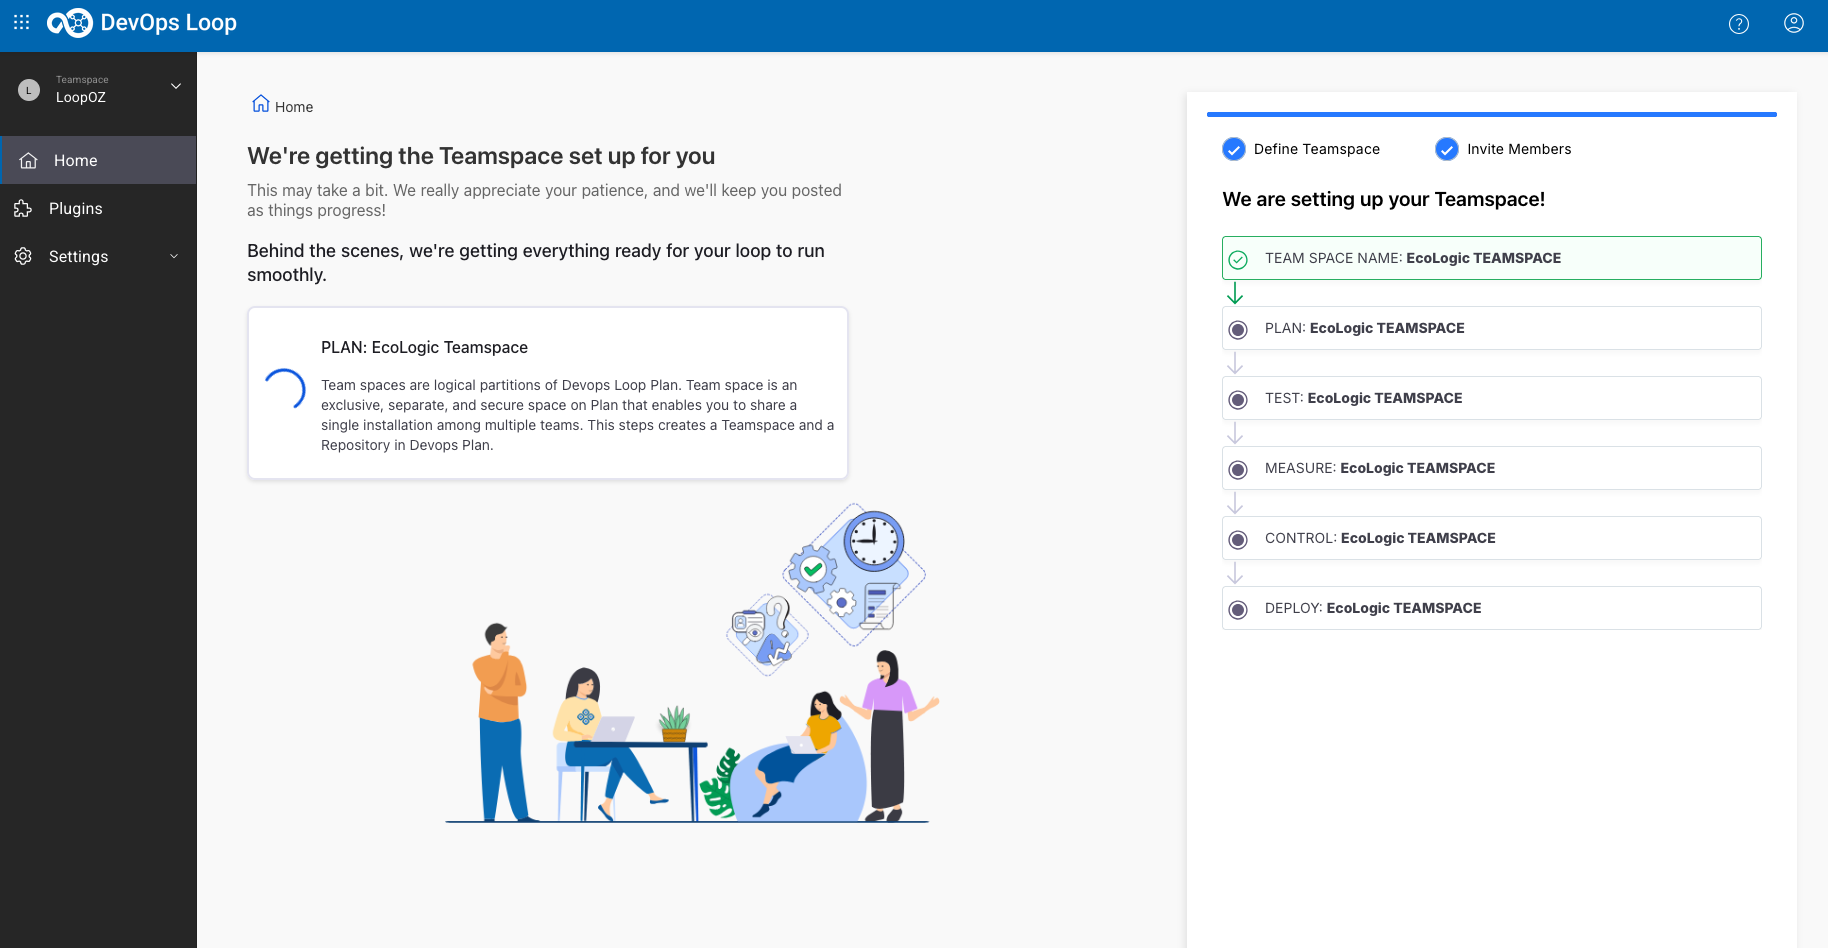
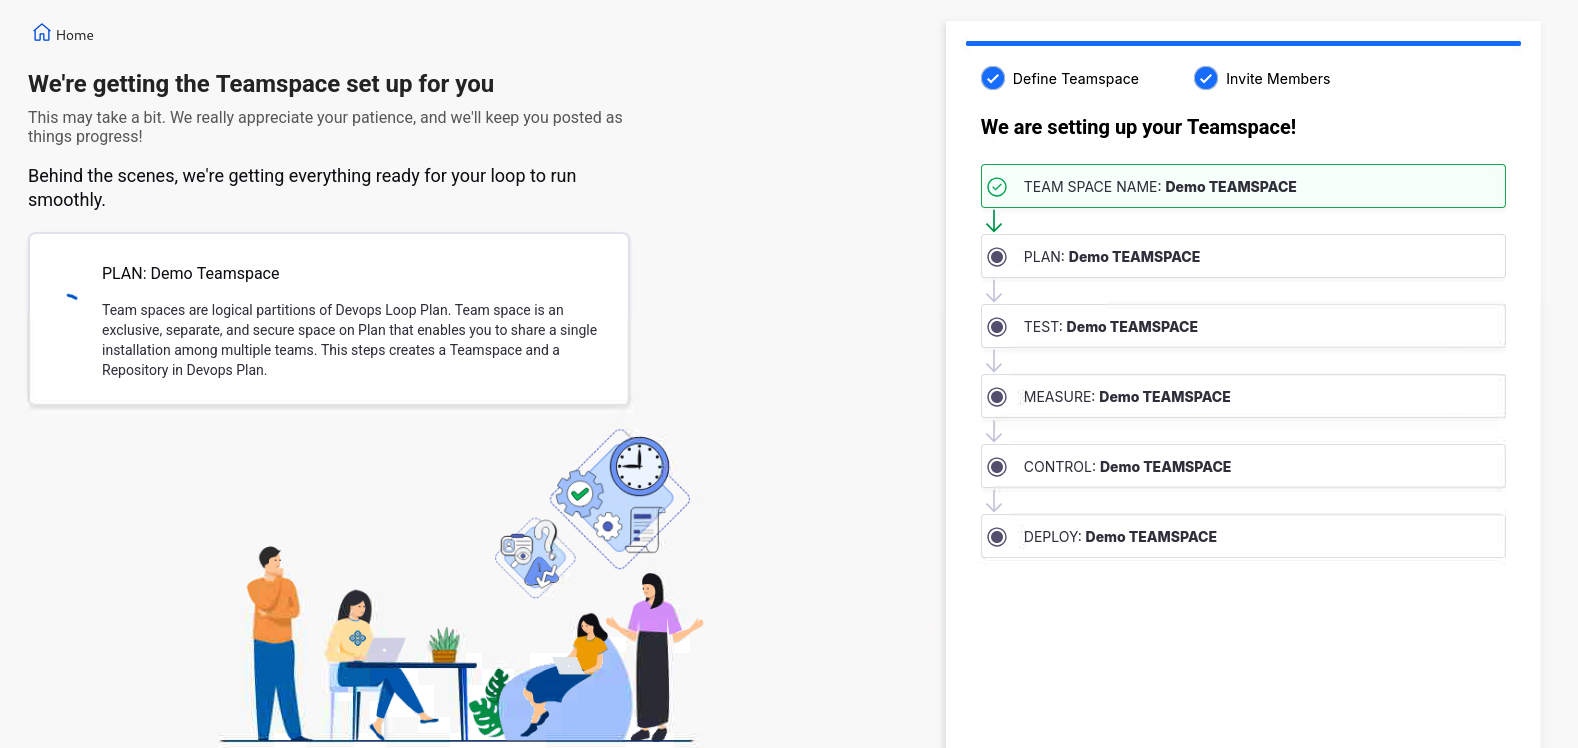
added setup guide

diff --git a/docs/setup.md b/docs/setup.md
@@ -1,0 +1,74 @@
+# Setup
+
+Manual Setup of Demo Environment on top of pre-provided DevOps Loop Environment.
+
+## TechZone
+
+TODO: get more information which environment to use and how to use the "Frontend"
+
+## Start Here
+
+### How to log in
+
+| Step | Details                                                                                                     | Additional Information                                       |
+|:----:|:------------------------------------------------------------------------------------------------------------|:-------------------------------------------------------------|
+|  1   | [Open DevOps Loop in Browser][URLDevOpsLoop]                                                                | URL= 'https://devops.automation.techzone.ibm.com/automation' |
+|  2   | Enter Your Credentials in the Login Screen <br> **User:** 'demo@devops.loop' <br>  **Password:** 'Passw0rd' | ![Login Screen][LoginDialog]                                 |
+|  3   | Click on the Sign In Button                                                                                 | ![Sign In button][SignInButton]                              |
+
+### The Home Page
+
+| Step | Details                                                                                                                               | Additional Information                                                  |
+|:----:|:--------------------------------------------------------------------------------------------------------------------------------------|:------------------------------------------------------------------------|
+|  1   | After you have been logged in you will be directed to your homepage and it will provide you an overview about metrics from your Loops | ![Home Page][LoopHomePageView]                                          |
+|  2   | If no Teamspace has been created follow the next steps                                                                                | ![No Teamspace available][NoTeamSpaceAvailable]                         |
+|  3   | Click on the Teamspace icon ![TeamSpace Icon][TSIcon] to view your Teamspaces or create a new one                                     | ![Teamspace menue][TSMenue]                                             |
+|  4   | Click on **Create TeamSpace**                                                                                                         | ![TeamSpace menue - Create TeamSpace Link][TSCreateTSentry]             |
+|  5   | Enter a name and a Description <br>**Example Name: 'Demo'** <br>**Example Description: 'Teamspace for Demos'** <br>                   | ![Teamspace - Create New][TSCreateNewDialog]                            |
+|  6   | press **Next** Button to proceed                                                                                                      | ![Next Button][NextButton]                                              |
+|  7   | You can search and **add** Teammembers to a Teamspace                                                                                 | ![Teamspace - Create New - search Member][TSAddTeammember]              |
+|  8   | Teammember is added to a list. Proceed to add more members if needed.                                                                 | ![Teamspace - Create New - Member added][TSTeamMemberAdded]             |
+|  9   | Press **Create** to proceed                                                                                                           | ![Create TeamSpace Button][TSCreateButton]                              |
+|  10  | Teamspace creation will take a few moments, as soon as it finishes a success dialog will be shown                                     | ![Teamspace - Create New - creation process started][TSCreationStarted] |
+|  11  | Teamspace created. Click on **Go to Teamspace** for next steps                                                                        | ![Teamspace - Create New - creation successfull][TSCreateionFinished]   |
+|  12  | When the creation of a TeamSpace is finished you will be forwarded to your empty loops home page for your new TeamSpace               | ![Empty Loops Homepage][LoopHomePageCreateNewLoop]                      |
+|  13  | Press the **Create Loop** Button                                                                                                      | ![Create New Loop Button][CreateNewLoopButton]                          |
+|  14  | In the Loop creation Dialog enter a name and a description                                                                            | ![Loops - Create New - Dialog][CreateNewDialog]                         |
+|  15  | press the **Next** Button to proceed                                                                                                  | ![Next Button][NextButton]                                              |
+|  16  | You can search and add a Teammember to the Loop                                                                                       | ![Loops - Create New - search Member][SearchAddMember]                  |
+|  17  | a new Member is added                                                                                                                 | ![Loops - Create New - member added][AddedMember]                       |
+|  18  | Press the **Create** Button to start Loop creation                                                                                    | ![Create Button][CreateButton]                                          |
+|  19  | Loop creation can take a few moments, as soon as it finishes a Success screen will be shown                                           | ![Loops - Create New - create process started][LoopCreation]            |
+|  20  | Creation is successfull                                                                                                               | ![Loops - Create New - creation successfull][LoopCreatedSuccess]        |
+|  21  | Press now **Go to my Loops** Button to proceed                                                                                        | ![Go to my Loop Button][GoToMyLoops]                                    |
+|      |                                                                                                                                       |                                                                         |
+
+---
+
+[LoopHomePageView]: learn/introduction/media/Loop_Home_Page.png
+[URLDevOpsLoop]: https://devops.automation.techzone.ibm.com/automation
+[LoginDialog]: learn/introduction/media/Loop_Login_Page.png
+[SignInButton]: learn/introduction/media/Loop_SignInButton.png
+[NoTeamSpaceAvailable]: learn/introduction/media/INIT_1_NoTeamspace.png
+
+[TSMenue]: learn/introduction/teamspace/media/Loop_Teamspace_01_Menue.png
+[TSCreateNewDialog]: learn/introduction/teamspace/media/Loop_Teamspace_02_CreateNew_Dialog.png
+[TSAddTeammember]: learn/introduction/teamspace/media/Loop_Teamspace_03_CreateNew_searchMember.png
+[TSTeamMemberAdded]: learn/introduction/teamspace/media/Loop_Teamspace_04_CreateNew_MemberAdded.png
+[TSCreationStarted]: learn/introduction/teamspace/media/Loop_Teamspace_05_CreateNew_creation.png
+[TSCreateionFinished]: learn/introduction/teamspace/media/Loop_Teamspace_06_CreateNew_success.png
+[TSIcon]: learn/introduction/teamspace/media/Loop_TeamSpaceIcon.png
+[TSCreateTSentry]: learn/introduction/teamspace/media/Loop_CreateTeamSpace.png
+[TSCreateButton]: learn/introduction/teamspace/media/Loop_Create_TS_Button.png
+[NextButton]: media/Button_NEXT.png
+
+[LoopHomePageCreateNewLoop]: learn/introduction/loops/media/Loop_Teamspace_07_CreateNewLoop_Home.png
+[CreateNewDialog]: learn/introduction/loops/media/Loop_Teamspace_08_CreateNewLoop_Dialog.png
+[CreateNewLoopButton]: learn/introduction/loops/media/Loop_CreateNewLoop_Button.png
+[SearchAddMember]: learn/introduction/loops/media/Loop_Teamspace_09_CreateNewLoop_searchMember.png
+[AddedMember]: learn/introduction/loops/media/Loop_Teamspace_10_CreateNewLoop_MemberAdded.png
+
+[CreateButton]: learn/introduction/loops/media/Loop_CreateNewLoop_Button.png
+[LoopCreation]: learn/introduction/loops/media/Loop_Teamspace_11_CreateNewLoop_creation.png
+[LoopCreatedSuccess]: learn/introduction/loops/media/Loop_Teamspace_12_CreateNewLoop_success.png
+[GoToMyLoops]: learn/introduction/loops/media/Loops_GoToMyLoops_Button.png

diff --git a/docs/learn/introduction/index.md b/docs/learn/introduction/index.md
@@ -9,38 +9,49 @@ To use the platform you have to be onboarded onto it. This is normaly done by yo
 
 ### How to log in
 
-Please navigate to the given URL and enter your provided credentials in the Login Screen:
-
-![Login Screen](media/Loop_Login_Page.png)
-
-and press the Sign In Button.
+| Step | Details                                                                                                     | Additional Information                                       |
+|:----:|:------------------------------------------------------------------------------------------------------------|:-------------------------------------------------------------|
+|  1   | [Open DevOps Loop in Browser][URLDevOpsLoop]                                                                | URL= 'https://devops.automation.techzone.ibm.com/automation' |
+|  2   | Enter Your Credentials in the Login Screen <br> **User:** 'demo@devops.loop' <br>  **Password:** 'Passw0rd' | ![Login Screen][LoginDialog]                                 |
+|  3   | Click on the Sign In Button                                                                                 | ![Sign In button][SignInButton]                              |
 
 ### The Home Page
 
-After you have been logged in you will be directed to your homepage and it will provide you an overview about metrics from your Loops:
-
-![Home Page][LoopHomePageView]
+| Step | Details                                                                                                                               | Additional Information                          |
+|:----:|:--------------------------------------------------------------------------------------------------------------------------------------|:------------------------------------------------|
+|  1   | After you have been logged in you will be directed to your homepage and it will provide you an overview about metrics from your Loops | ![Home Page][LoopHomePageView]                  |
+|  2   | If no Teamspace has been created follow the [Creation of a Teamspace and Loops instructions](#creation-of-a-teamspace-and-loops)      | ![No Teamspace available][NoTeamSpaceAvailable] |
+|  3   | If a Teamspace is available with a precrated Loop, explore the Environment following the next sections                                |                                                 |
 
 #### Dashboard and Metrics
 
-![Plan Metric](media/LoopHome_Plan_metrics.png)
-![Build Metric](media/LoopHome_Build_Metrics.png)
-![Deploy Metric](media/LoopHome_Deploy_Metrics.png)
-![Control Metric](media/LoopHome_Control_metrics.png)
-![Lead Time](media/LoopHome_LeadTime.png)
-![Cycle Time](media/LoopHome_CycleTime.png)
+| Step | Details | Additional Information           |
+|:----:|:--------|:---------------------------------|
+|      |         | ![Plan Metric][MetricPlan]       |
+|      |         | ![Build Metric][MetricBuild]     |
+|      |         | ![Deploy Metric][MetricDeploy]   |
+|      |         | ![Control Metric][MetricControl] |
+|      |         | ![Lead Time][KPIDoraLeadTime]    |
+|      |         | ![Cycle Time][KPIDoraCycleTime]  |
+|      |         |                                  |
 
 #### What would you like to do today?
 
-You can switch directly to the capability/solution by using the button/link
-
-![What would you like to do today?](media/Loop_whatwouldyouliketodotoday.png)
+| Step | Details                                                                     | Additional Information                                         |
+|:----:|:----------------------------------------------------------------------------|:---------------------------------------------------------------|
+|      | You can switch directly to the capability/solution by using the button/link | ![What would you like to do today?][WhatWouldYouLikeToDoToday] |
+|      |                                                                             |                                                                |
+|      |                                                                             |                                                                |
+|      |                                                                             |                                                                |
 
 #### Central Solution/App Switcher
 
-or by using the central app switcher on the top left:
-
-![Central App Switcher](media/Loop_central_app_control.png)
+| Step | Details                                              | Additional Information                      |
+|:----:|:-----------------------------------------------------|:--------------------------------------------|
+|      | or by using the central app switcher on the top left | ![Central App Switcher][CentralAppSwitcher] |
+|      |                                                      |                                             |
+|      |                                                      |                                             |
+|      |                                                      |                                             |
 
 ## Creation of a Teamspace and Loops
 
@@ -79,3 +90,15 @@ Go back to [Lab and Demo Overview][GoBackToDemoOverview]
 [LoopHomeLoopGenieIcon]: media/../intro/media/LOOP_HomePage_LoopGenieButton.png
 [LoopGenieDialog]: intro/media/LOOP_HomePage_LoopGenieDialog.png
 [IntroAboutBoxSidebarPlugins]: intro/index.md
+[URLDevOpsLoop]: https://devops.automation.techzone.ibm.com/automation
+[LoginDialog]: media/Loop_Login_Page.png
+[SignInButton]: media/Loop_SignInButton.png
+[MetricPlan]: media/LoopHome_Plan_metrics.png
+[MetricBuild]: media/LoopHome_Build_Metrics.png
+[MetricDeploy]: media/LoopHome_Deploy_Metrics.png
+[MetricControl]: media/LoopHome_Control_metrics.png
+[KPIDoraLeadTime]: media/LoopHome_LeadTime.png
+[KPIDoraCycleTime]: media/LoopHome_CycleTime.png
+[WhatWouldYouLikeToDoToday]: media/Loop_whatwouldyouliketodotoday.png
+[CentralAppSwitcher]: media/Loop_central_app_control.png
+[NoTeamSpaceAvailable]: media/INIT_1_NoTeamspace.png

diff --git a/docs/index.md b/docs/index.md
@@ -8,7 +8,7 @@ This Demo/Lab is providing a Stepy by Step guide [Demo Flow](demoflow.md) how to
 
 ### [Introduction](learn/introduction/index.md)
 
-This Guide will give you a short introduction into DevOps Loop. Follow this [Guide](learn/introduction/index.md#creation-of-a-teamspace-and-loops if you need to create a new Teamspace and Loop.
+This Guide will give you a short introduction into DevOps Loop. Follow this [Fast Setup Guide](setup.md) or with more detail [Introduction Creation of Teamspace and Loop](learn/introduction/index.md#creation-of-a-teamspace-and-loops) if you need to create a new Teamspace and Loop.
 
 Guide how to setup a frewh new Teamspace and Loop
 
